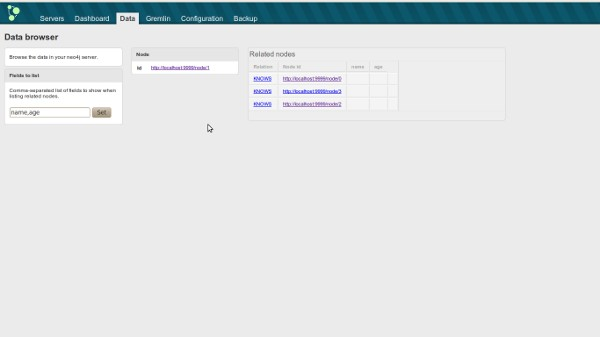
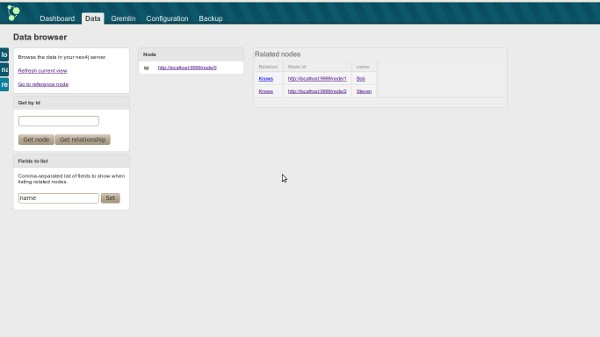
Updated readme, updated data browser screenshot

diff --git a/README.md b/README.md
@@ -29,7 +29,18 @@ To try the admin interface out:
 	git clone http://github.com/neo4j/webadmin.git
 	cd webadmin
 	./start
-	
+
+To run the production version:
+
+Download the latest distribution as a <a href="http://m2.neo4j.org/org/neo4j/neo4j-webadmin/0.0.1-SNAPSHOT/neo4j-webadmin-0.0.1-SNAPSHOT.zip">zip</a> or as a <a href="http://m2.neo4j.org/org/neo4j/neo4j-webadmin/0.0.1-SNAPSHOT/neo4j-webadmin-0.0.1-SNAPSHOT.tar.gz">tarball</a>.
+
+Unpack in your favourite folder and start by running:
+
+    *nix:
+    ./bin/neo4j-webadmin start
+    
+    Windows:
+    bin\neo4j-webadmin.bat start
 
 Build production version
 ------------------------
